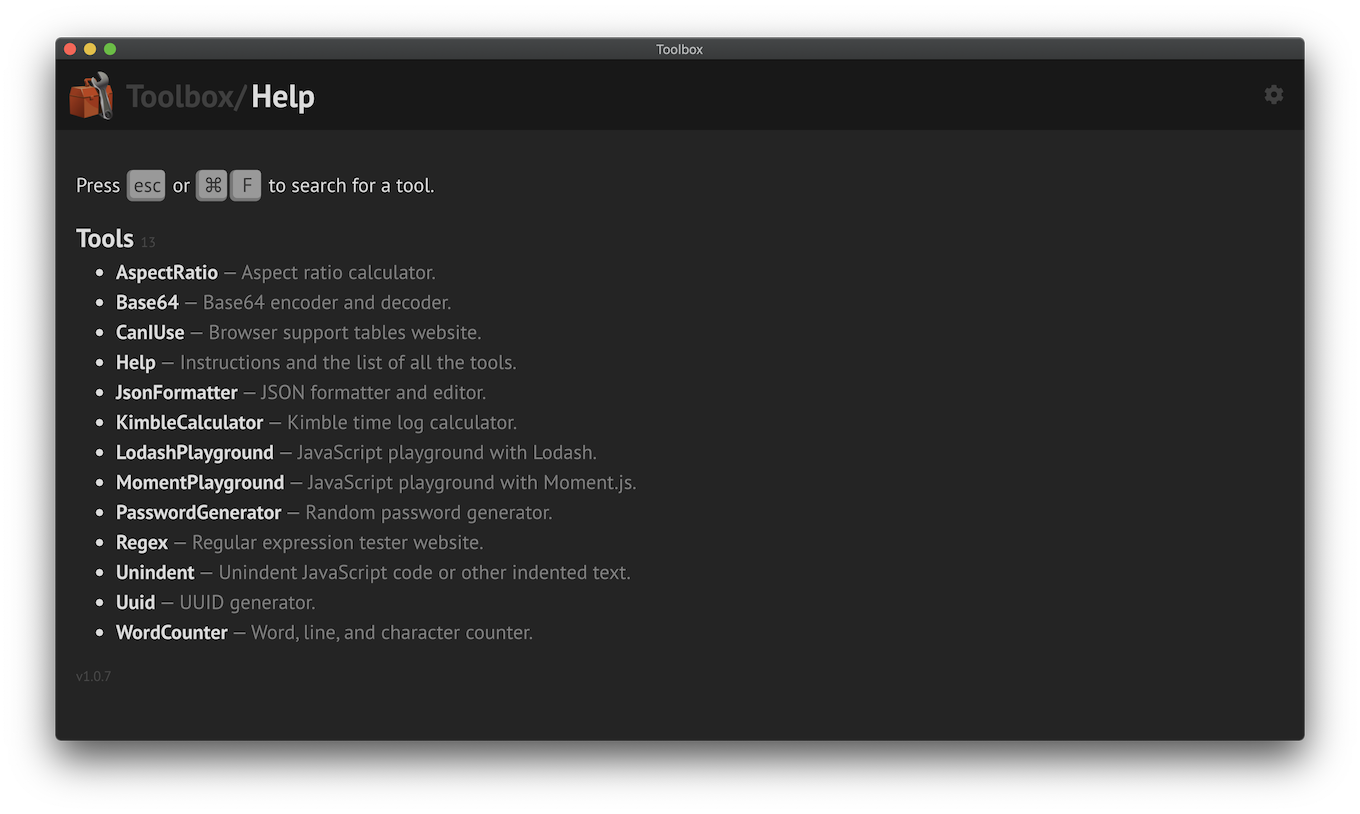
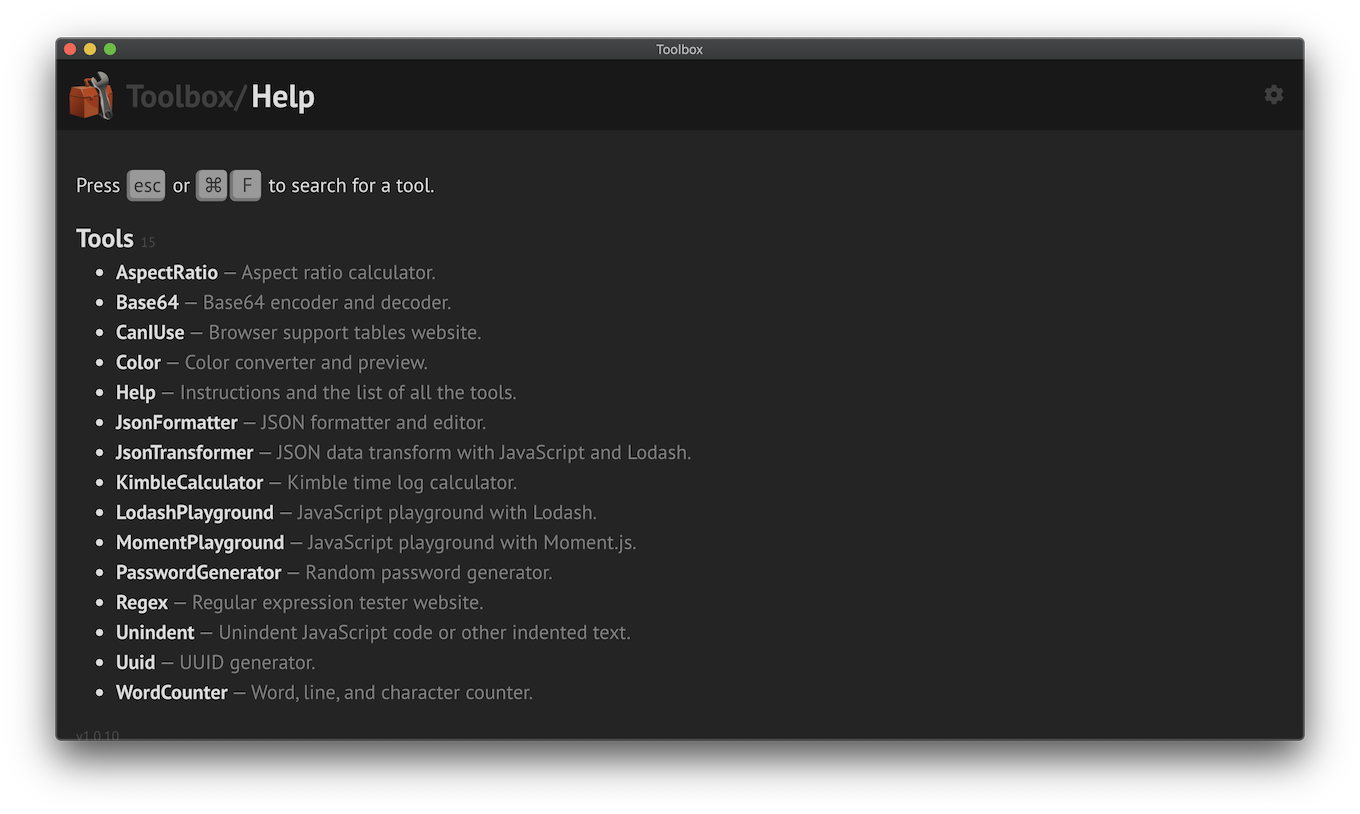
Readme and screenshots

Changed region(s): [[0.0618, 0.43, 0.4941, 0.86], [0.0618, 0.8907, 0.0926, 0.9214]]

diff --git a/README.md b/README.md
@@ -18,7 +18,7 @@ But since I plan to add a lot of tools to this toolbox, I've spent the time crea
 
 - `npm start` - Start development in browser.
 - `npm run dev` - Start development in Electron.
-- `npm run make` - Build production MacOS app. Output: `out/Toolbox-darwin-x64/Toolbox.app'.
+- `npm run make` - Build production MacOS app. Output: `out/Toolbox-darwin-x64/Toolbox.app`.
 
 ## Changing the port
 
@@ -39,7 +39,9 @@ It's easiest to search for the current port and replace it everywhere.
 
 ![Help](docs/screenshot-help.png)
 ![Search](docs/screenshot-search.png)
+![Json](docs/screenshot-json.png)
 ![Lodash](docs/screenshot-lodash.png)
 ![Base64](docs/screenshot-bsase64.png)
 ![Uuid](docs/screenshot-uuid.png)
+![Color](docs/screenshot-color.png)
 ![Regex](docs/screenshot-regex.png)
